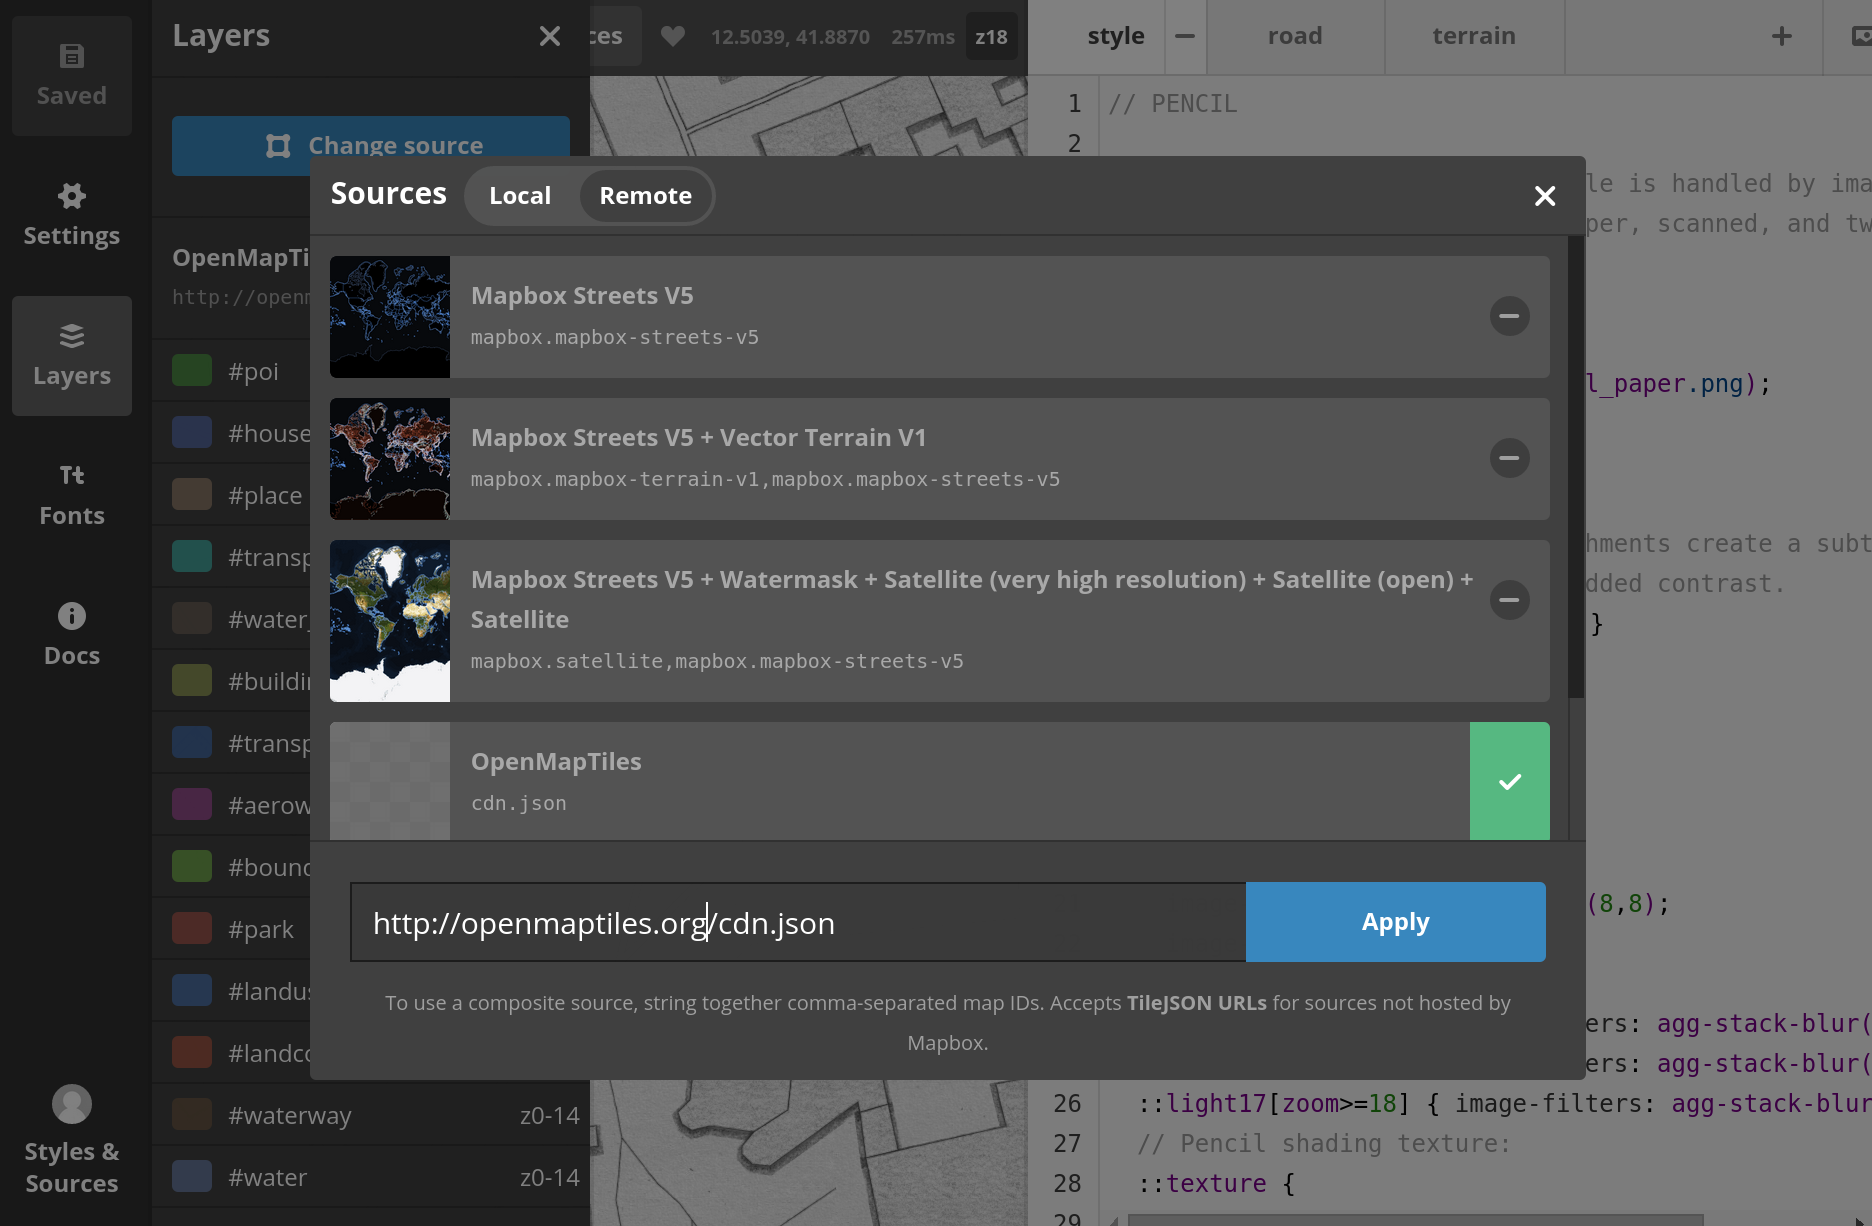
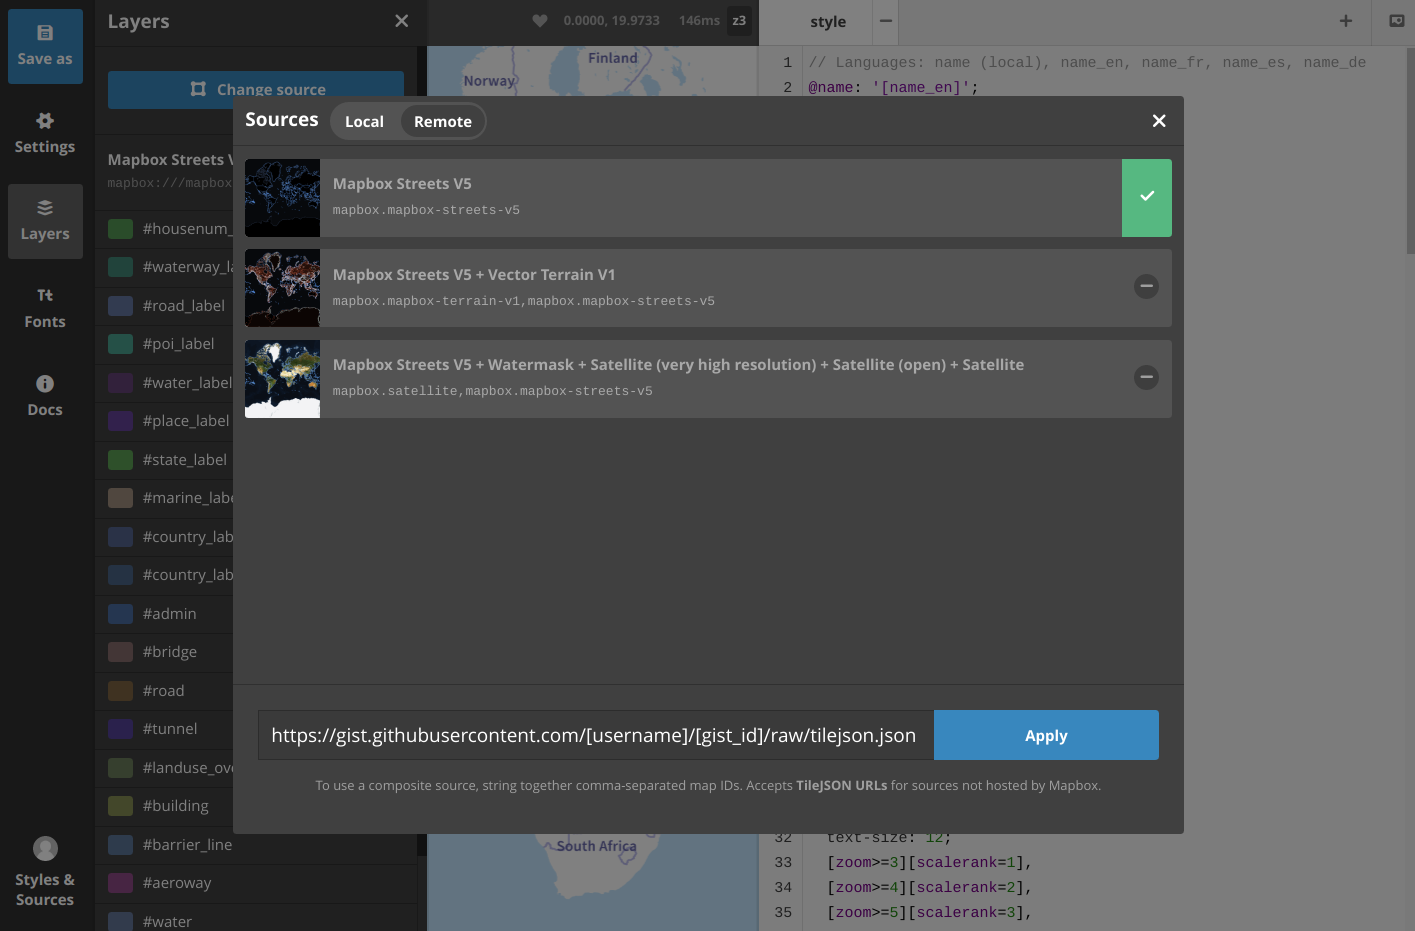
How to change the source at Mapbox Studio Classic

diff --git a/docs/style/mapbox-studio-classic.md b/docs/style/mapbox-studio-classic.md
@@ -17,14 +17,20 @@ NOTE: If you need raster tiles it is highly recomended to use the <a href="https
 
 ## Change the Source
 
-Change the source of your TM2 style to `http://openmaptiles.org/cdn.json` and save the style.
+Go to [Vector tile hosting](https://openmaptiles.com/hosting/) and get a free key. Then download tilejson from URL
+```
+https://free.tilehosting.com/data/v3.json?key={key}
+```
+and save it as a file with `.json` extension (the extension is necessary for Mapbox Studio Classic).
+Upload the JSON to the web, e.g. using [Gist](https://gist.github.com/).
+Finally change the source of your TM2 style to URL of your tilejson and save the style.
 
 ![Mapbox Studio Classic hange source](/media/mapbox_studio_classic_change_url.png)
 
 ## Write CartoCSS
 
-Change the [CartoCSS](https://www.mapbox.com/help/getting-started-cartocss/) selector to match the OpenMapTiles layers)
-Study the OpenMapTiles [vector tile schema](/schema) to find the layers and attributes you need to create your map.
+Change the [CartoCSS](https://www.mapbox.com/help/getting-started-cartocss/) selector to match the OpenMapTiles layers.
+Study the OpenMapTiles [vector tile schema](/schema) to find layers and attributes you need to create your map.
 
 Check out the video tutorial how to port an existing TM2 style to OpenMapTiles.
 
